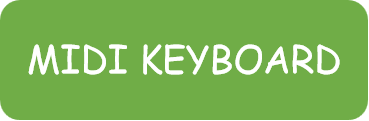
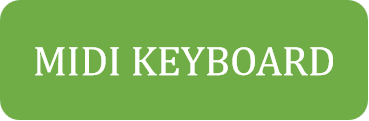
update

Changed region(s): [[0.0596, 0.3471, 0.9241, 0.6446]]

diff --git a/config.py b/config.py
@@ -6,18 +6,18 @@ background_size = None
 piano_image = 'piano.png'
 piano_size = None
 message_color = (0, 0, 0, 255)
-fonts_size = 20
-label1_place = 300, 400
+fonts_size = 23
+label1_place = (300, 400)
 label2_place = 300, 350
 label3_place = 300, 450
 label_anchor_x = 'left'
 label_anchor_y = 'center'
-fonts = 'Comic Sans MS'
-bold = False
+fonts = 'Cambria'
+bold = True
 notes_image = 'playing.png'
 notes_resize_num = 1.2
 go_back_image = 'go_back.png'
-go_back_place = 50, 550
+go_back_place = (50, 550)
 self_play_image = 'play.png'
 self_play_place = 50, 500
 self_midi_image = 'midi_keyboard.png'
